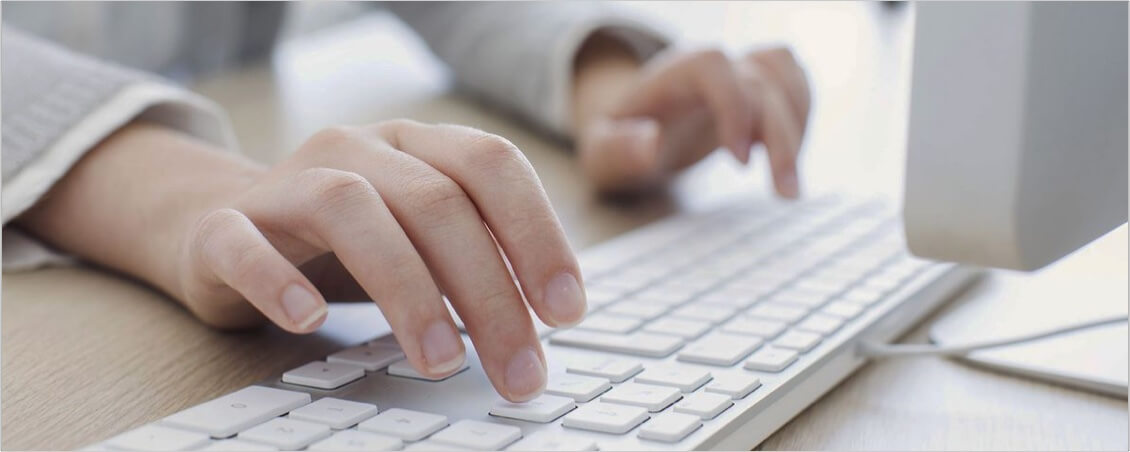
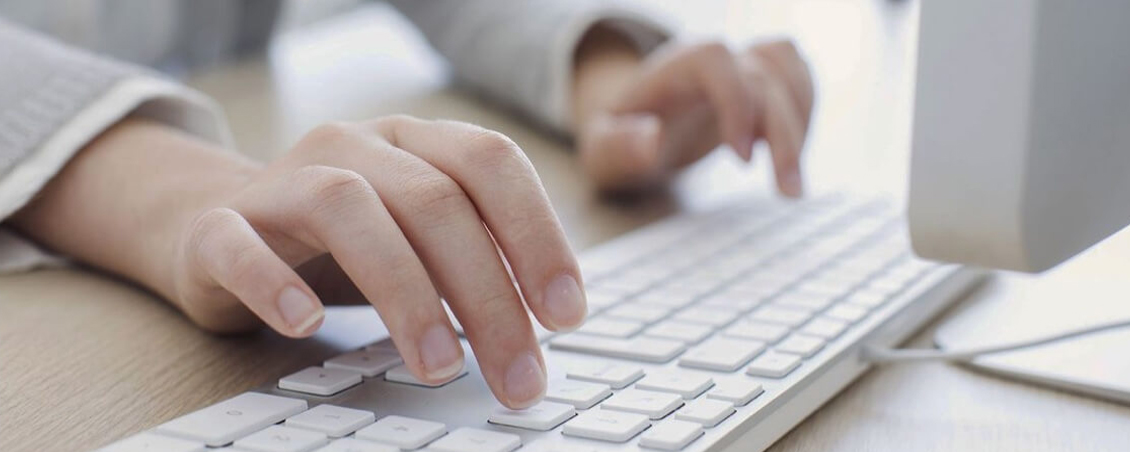
update

diff --git a/src/views/Home.vue b/src/views/Home.vue
@@ -20,7 +20,7 @@
       </div>
       <div class="home-core-product">
         <div class="home-core-product-title">核心产品线</div>
-        <img src="../assets/images/home/product-all.png" alt="" class="home-core-product-img-all">
+        <img src="../assets/images/home/product-all.jpg" alt="" class="home-core-product-img-all">
         <!-- <div class="home-core-product-img-box">
           <div class="home-core-product-item">
             <img src="../assets/images/home/product1.jpg" alt="">
